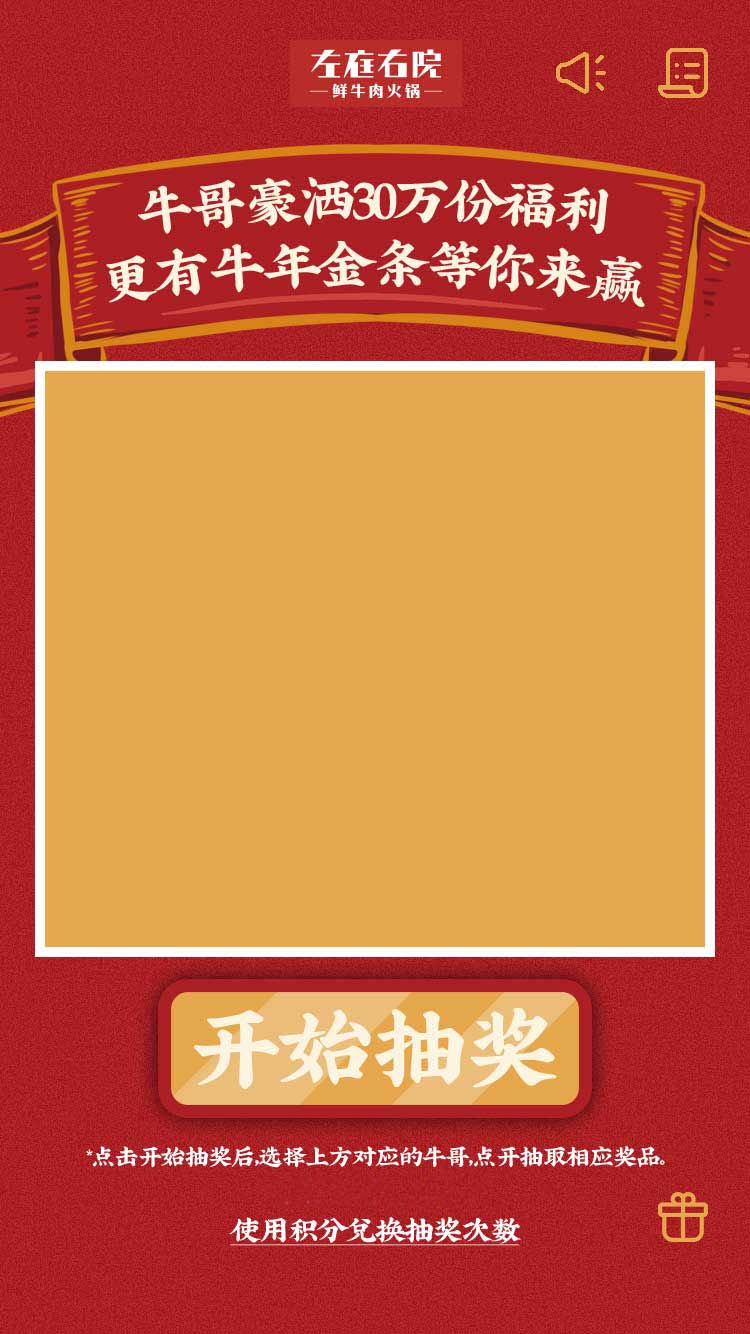
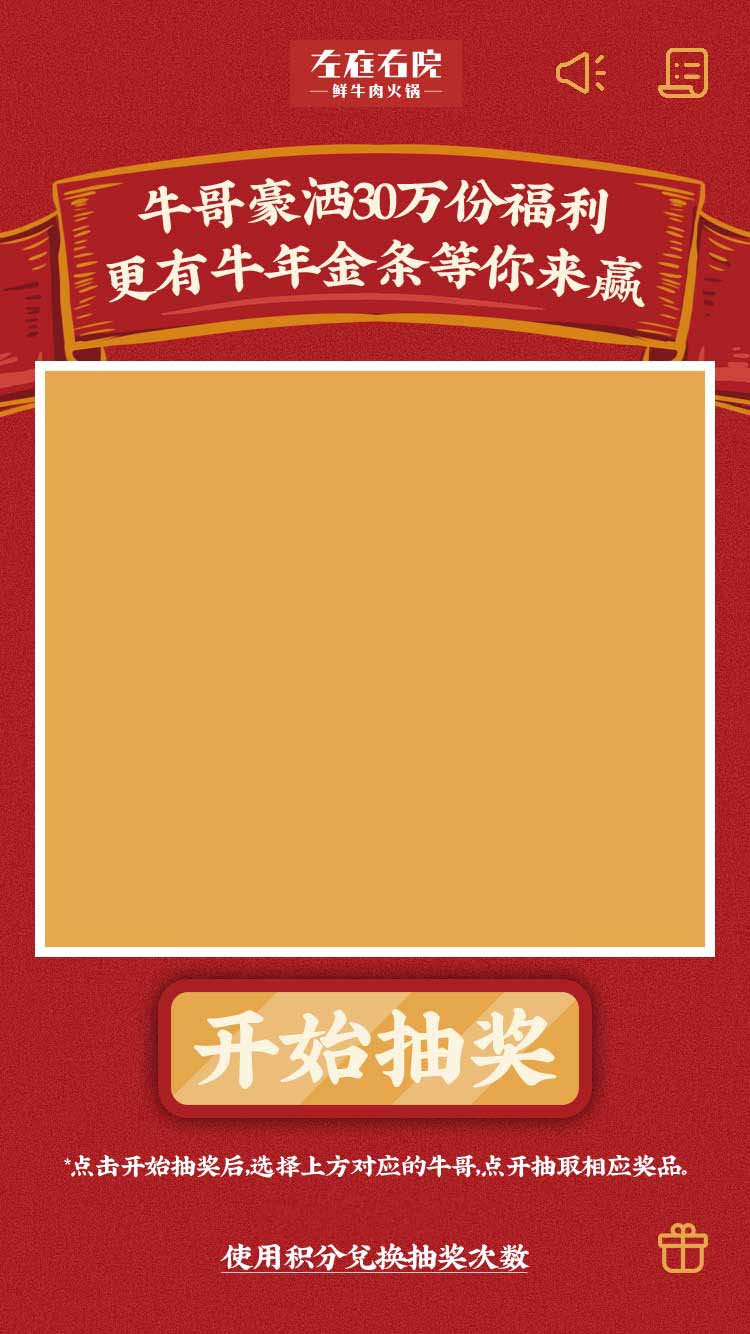
放大字体

Changed region(s): [[0.092, 0.8606, 0.9507, 0.9528]]

diff --git a/左庭右院_抽奖/css/style.css b/左庭右院_抽奖/css/style.css
@@ -268,11 +268,11 @@ audio {
   height: 10%;
 }
 .btn-source {
-  top: 88.2%;
+  top: 89.5%;
   left: 33%;
   width: 34%;
   height: 3%;
-  font-size: 14px;
+  font-size: 15px;
   color: #dddfda;
   text-align: center;
 }
@@ -481,15 +481,15 @@ audio {
   left: 86%;
 }
 .btn-btn3 {
-  width: 41%;
-  height: 2.5%;
-  top: 91%;
-  left: 31%;
+  width: 42%;
+  height: 3%;
+  top: 93%;
+  left: 29%;
 }
 .btn-btn4 {
   width: 11%;
   height: 5%;
-  top: 89%;
+  top: 91%;
   left: 86%;
 }
 .btn-add {
